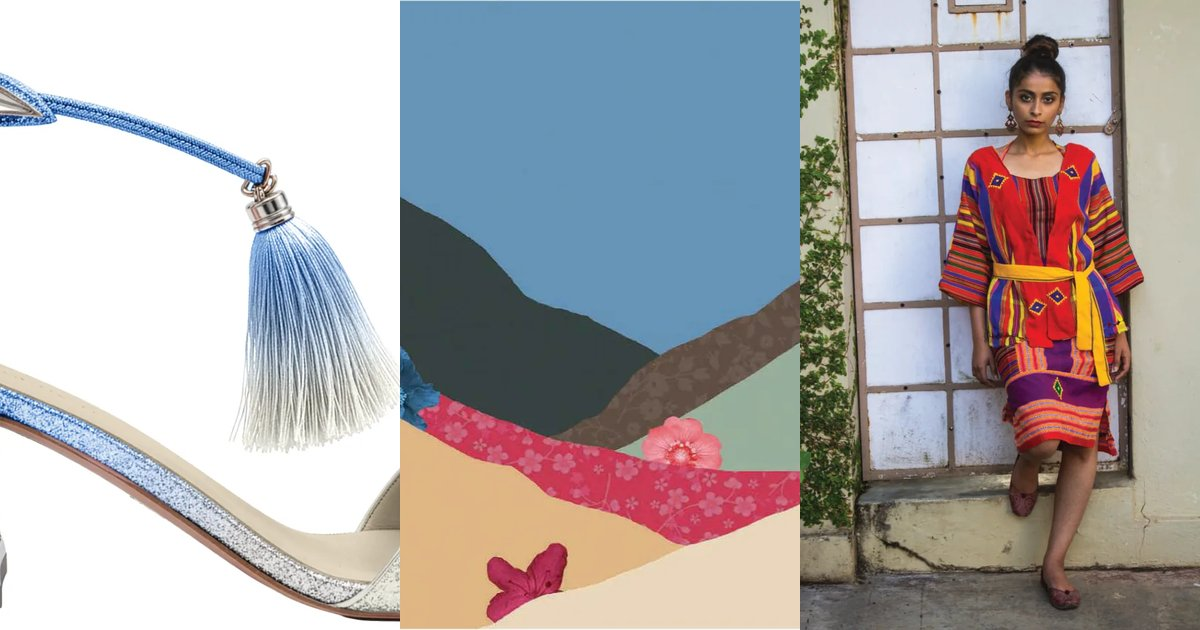
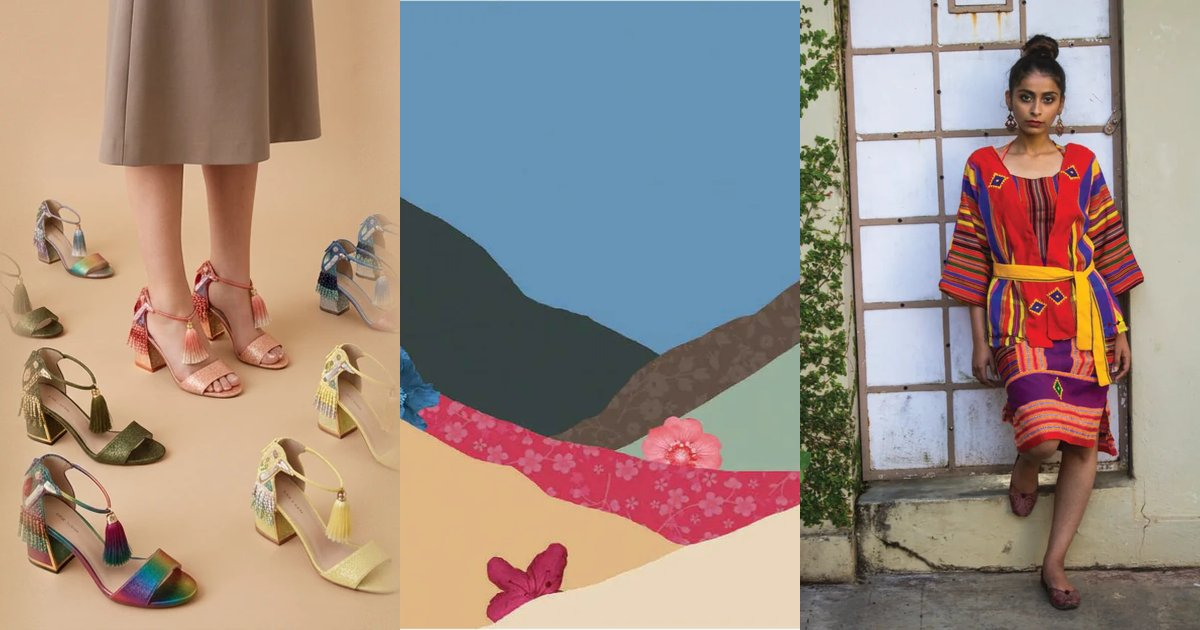
Use the Kat Maconie sandals photo as the accessories cover
Takes the raw 416x624 photo from page 5 (the PDF displays it stretched)
and extends its studio backdrop to the 3:2 cover box so the whole photo
shows uncropped. tools/extract.py does this reproducibly.

diff --git a/index.html b/index.html
@@ -52,7 +52,7 @@
 
 <section class="chapters wrap" aria-label="Portfolios">
     <a class="chapter" href="accessories.html" style="--tag:var(--accessories)">
-      <div class="chapter-media"><img src="assets/img/covers/cover-accessories.webp" width="1413" height="918" class="contain" alt="KAY sandal for Kat Maconie in the Electric Blue to White colourway" loading="eager" fetchpriority="high"></div>
+      <div class="chapter-media"><img src="assets/img/covers/cover-accessories.webp" width="936" height="624" alt="Kat Maconie embellished block-heel sandals arranged around a model’s feet on a beige backdrop" loading="eager" fetchpriority="high"></div>
       <div>
         <span class="tag chapter-num">01</span>
         <h2>Accessories</h2>

diff --git a/tools/extract.py b/tools/extract.py
@@ -113,6 +113,49 @@ def chain(*fixes):
     return fix
 
 
+def extend_backdrop(photo, ratio=3 / 2, feather=56):
+    """Place a portrait studio photo on a wider canvas, continuing its seamless backdrop to the sides."""
+    import numpy as np
+    im = np.asarray(photo.convert("RGB")).astype(np.float32)
+    h, w, _ = im.shape
+    width = round(h * ratio)
+    # Backdrop colour per row from the outer strips, ignoring pixels far from the overall tone (shoes, legs).
+    strip = np.concatenate([im[:, :24], im[:, -24:]], axis=1)
+    ref = np.median(strip.reshape(-1, 3), axis=0)
+    rows = np.full((h, 3), np.nan, dtype=np.float32)
+    for y in range(h):
+        keep = strip[y][np.linalg.norm(strip[y] - ref, axis=1) < 28]
+        if len(keep) > 6:
+            rows[y] = np.median(keep, axis=0)
+    idx = np.arange(h)
+    k = 151
+    for c in range(3):
+        ok = ~np.isnan(rows[:, c])
+        col = np.interp(idx, idx[ok], rows[ok, c])
+        rows[:, c] = np.convolve(np.pad(col, k // 2, mode="edge"), np.ones(k) / k, mode="valid")
+    canvas = np.repeat(rows[:, None, :], width, axis=1)
+    x0 = (width - w) // 2
+    alpha = np.ones(w, dtype=np.float32)
+    ramp = np.linspace(0, 1, feather) ** 1.5
+    alpha[:feather], alpha[-feather:] = ramp, ramp[::-1]
+    a = alpha[None, :, None]
+    canvas[:, x0:x0 + w] = im * a + canvas[:, x0:x0 + w] * (1 - a)
+    grain = np.random.default_rng(7).normal(0, 2.4, canvas.shape).astype(np.float32)
+    outside = np.ones(width, dtype=np.float32)
+    outside[x0 + feather:x0 + w - feather] = 0
+    canvas += grain * outside[None, :, None]
+    return Image.fromarray(np.clip(canvas, 0, 255).astype(np.uint8))
+
+
+def embedded_image(doc, page_no, size):
+    """The raw embedded image of a given pixel size on a page (avoids the page's display distortion)."""
+    page = doc[page_no - 1]
+    for img in page.get_images(full=True):
+        if (img[2], img[3]) == size:
+            return Image.open(io.BytesIO(doc.extract_image(img[0])["image"])).convert("RGB")
+    raise ValueError(f"no {size} image on page {page_no}")
+
+
 def redact_pdf(src, dst, faces):
     """Copy a PDF, rebuilding the pages listed in faces as images with those regions blurred."""
     doc = pymupdf.open(src)
@@ -192,12 +235,16 @@ def main():
         ex.photos(app, p, keys, "apparel")
 
     # Footwear presentation for Kat Maconie (kept outside the repo: the source PDF is ~140 MB).
-    # Its KAY sandal render becomes the accessories cover; without it, the saddle-bag colourways are used.
+    # Its sandals photo (page 5) becomes the accessories cover; without it, the saddle-bag colourways are used.
     if footwear_pdf:
         fw = pymupdf.open(footwear_pdf)
         for p in range(1, fw.page_count + 1):
             ex.plate(fw, p, f"fw-{p:02d}", "accessories", 2.5)
-        ex.clip(fw, 3, (19, 20, 439, 274), "cover-accessories", "covers", 4, do_trim=True)
+        # The PDF shows this 416×624 photo stretched ~20% wide; use the raw image, backdrop extended to 3:2.
+        cover = extend_backdrop(embedded_image(fw, 5, (416, 624)))
+        os.makedirs(os.path.join(out_dir, "covers"), exist_ok=True)
+        cover.save(os.path.join(out_dir, "covers", "cover-accessories.webp"), "WEBP", quality=92, method=6)
+        ex.manifest["cover-accessories"] = {"src": "covers/cover-accessories.webp", "w": cover.width, "h": cover.height}
     else:
         ex.clip(acc, 3, (440, 50, 842, 298), "cover-accessories", "covers", 4)
 

diff --git a/tools/build.py b/tools/build.py
@@ -640,8 +640,8 @@ class Builder:
              "Tech packs, colourways and collections for Kat Maconie, Pelicans London, Aranyani and freelance "
              "client EEBAGAA, from embellished sandals and canvas rucksacks to leather totes and small leather goods.",
              ["Kat Maconie Footwear", "EEBAGAA", "BMW Alpina CCB", "Canvas Bags", "Back to School", "Aranyani SLGs"],
-             f'<img {self.img_attrs("cover-accessories")} class="contain" alt="KAY sandal for Kat Maconie in the '
-             f'Electric Blue to White colourway" loading="eager" fetchpriority="high">'),
+             f'<img {self.img_attrs("cover-accessories")} alt="Kat Maconie embellished block-heel sandals arranged '
+             f'around a model’s feet on a beige backdrop" loading="eager" fetchpriority="high">'),
             ("textile.html", "02", "var(--textile)", "Textile",
              "Handspun Eri silk dyed with turmeric, indigo and onion peel; prints drawn from palace mosaics "
              "and mountain flowers; embroidery samples; and a fellowship building livelihoods in Assam.",

diff --git a/README.md b/README.md
@@ -32,8 +32,8 @@ py -3.12 -I tools/build.py .
 If a PDF changes, replace it in `files/` and re-render the images first:
 
 ```
-py -3.12 -m pip install pymupdf pillow
-py -3.12 -I tools/extract.py files/sanika-paranjpe-accessories-portfolio.pdf files/sanika-paranjpe-textile-portfolio.pdf files/sanika-paranjpe-apparel-projects.pdf assets/img tools/faces.json
+py -3.12 -m pip install pymupdf pillow numpy
+py -3.12 -I tools/extract.py files/sanika-paranjpe-accessories-portfolio.pdf files/sanika-paranjpe-textile-portfolio.pdf files/sanika-paranjpe-apparel-projects.pdf assets/img tools/faces.json --footwear <Kat Maconie presentation PDF, kept outside the repo>
 py -3.12 -I tools/build.py .
 ```
 
